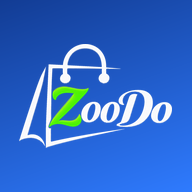
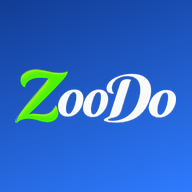
Icônes: sans le sac blanc, mot ZooDo seul sur le dégradé (sw v23)
Claude-Session: https://claude.ai/code/session_01LUHRCdprtrpwoRpAJ1uYym

Changed region(s): [[0.0625, 0.2188, 0.9375, 0.7812]]

diff --git a/sw.js b/sw.js
@@ -1,5 +1,5 @@
 /* ZooDo : fonctionnement hors ligne simple. Les données (Supabase) ne sont jamais mises en cache. */
-const V='zoodo-v22',SHELL=['./','index.html','manifest.webmanifest','zoodo-192.png','zoodo-512.png'];
+const V='zoodo-v23',SHELL=['./','index.html','manifest.webmanifest','zoodo-192.png','zoodo-512.png'];
 self.addEventListener('install',e=>{e.waitUntil(caches.open(V).then(c=>c.addAll(SHELL)).catch(()=>{}));self.skipWaiting()});
 self.addEventListener('activate',e=>{e.waitUntil(caches.keys().then(k=>Promise.all(k.filter(x=>x!==V).map(x=>caches.delete(x)))).then(()=>self.clients.claim()))});
 self.addEventListener('fetch',e=>{const r=e.request;if(r.method!=='GET'||new URL(r.url).origin!==location.origin)return;
